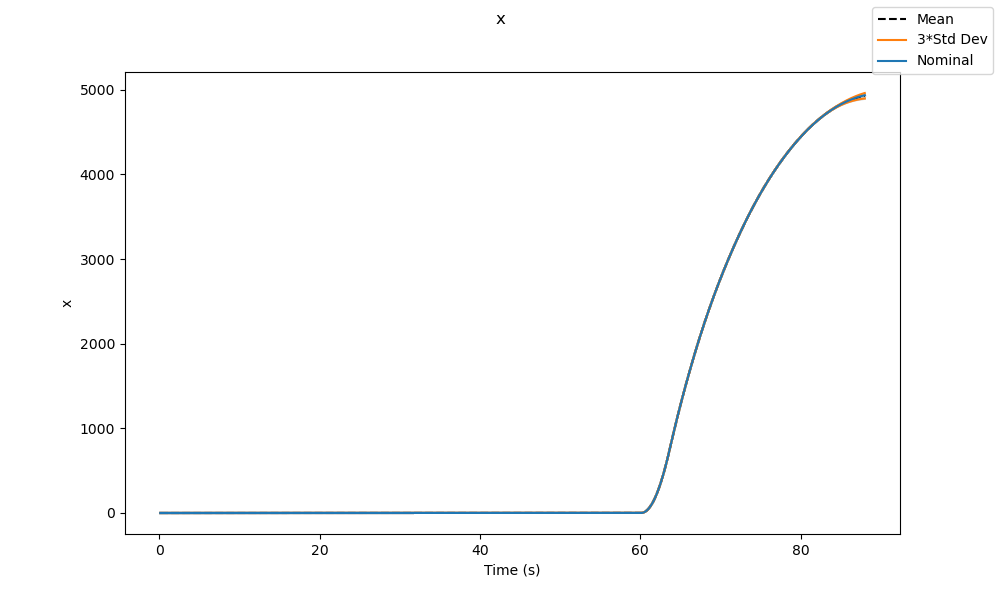
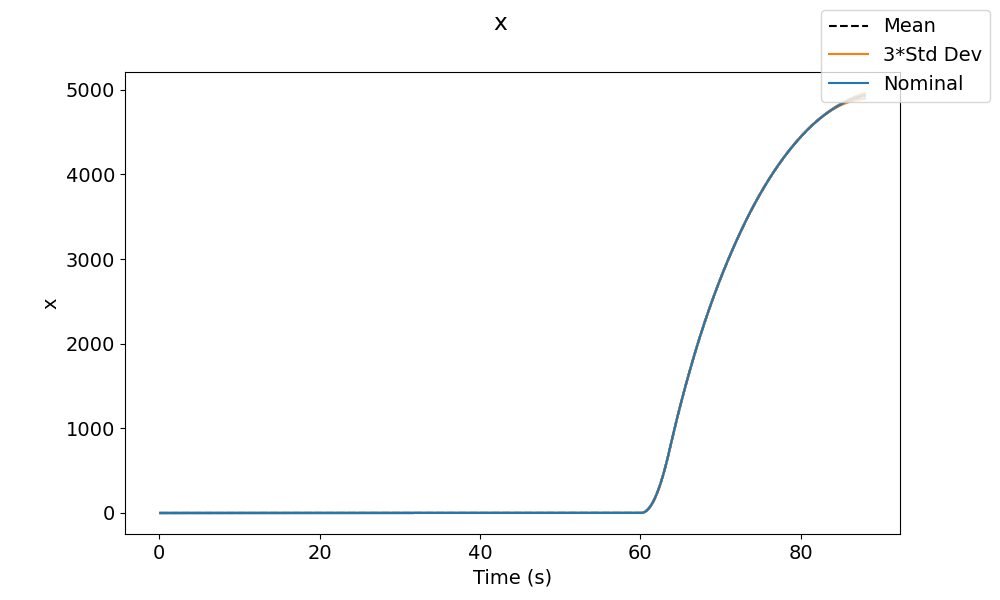
Made plot text larger

diff --git a/Simulation/6DOF_RK4/plotter/monte_carlo_plotter.py b/Simulation/6DOF_RK4/plotter/monte_carlo_plotter.py
@@ -3,6 +3,8 @@ import numpy as np
 import os
 import sys
 
+plt.rcParams.update({'font.size': 14})
+
 sys.path.insert(0, os.path.abspath(
     os.path.join(os.path.dirname(__file__), '..')))
 
@@ -181,7 +183,7 @@ def plotTrajectory3D(states:list, nominal_data:np.ndarray, monte_carlo_data:np.n
         monte_carlo_states[:,i,:] = monte_carlo_data[:, indices[state], :]
     
     # Plot nominal data
-    fig.colorbar(ax.scatter(nominal_states[0,:], nominal_states[1,:], nominal_states[2,:], c=color_data, cmap=cmap, label="Nominal", marker='.', linewidth=1))
+    fig.colorbar(ax.scatter(nominal_states[0,:], nominal_states[1,:], nominal_states[2,:], c=color_data, cmap=cmap, label="Nominal", marker='.', linewidth=1), pad=0.1)
     # Generate uncertainty cone based on monte carlo data
     # Every 10th point, generate points on a circle with radius 3 times the standard deviation of the monte carlo data that is orthogonal to the nominal trajectory
     # Calculate standard deviation of the monte carlo data at each time step
